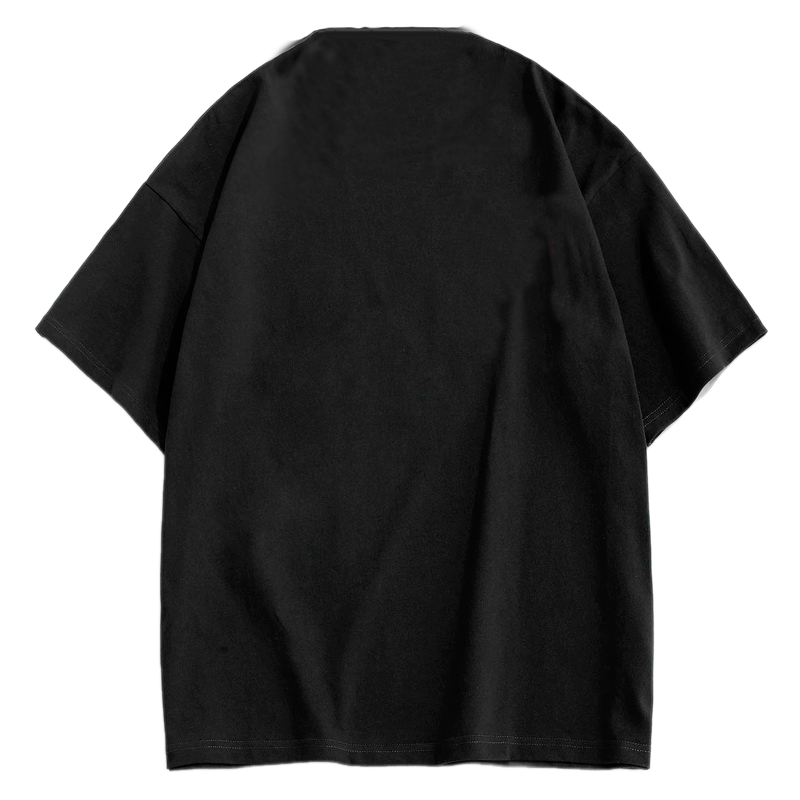
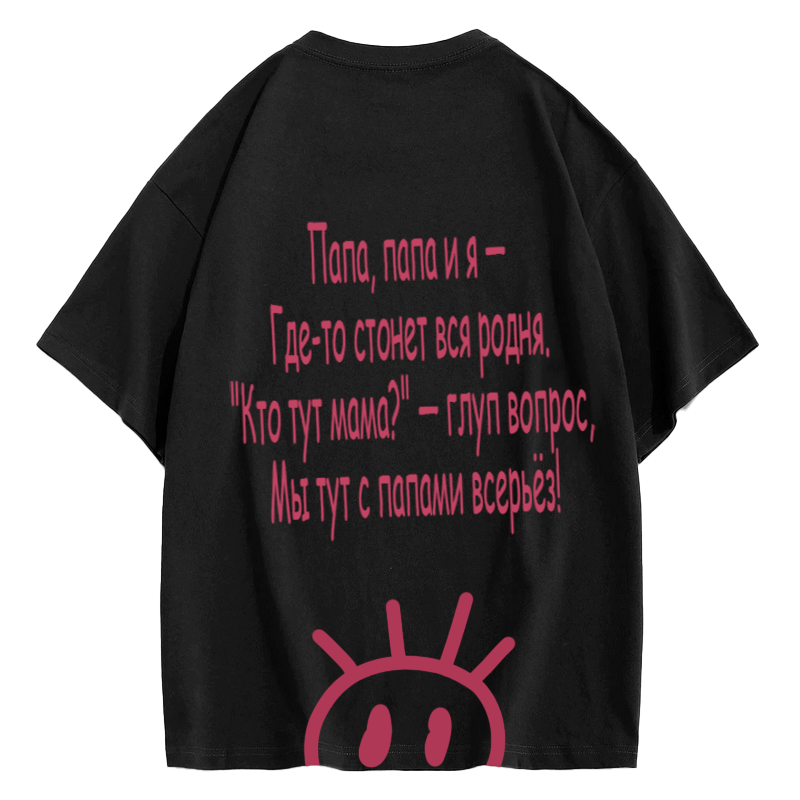
item page done

diff --git a/src/components/BlackTshirtPage.js b/src/components/BlackTshirtPage.js
@@ -3,13 +3,20 @@ import Header from './Header';
 import styles from '../css/item_style.module.css';
 
 import redTshirtImg from '../img/black_tshirt/fytbolka_black_red.png'
-import redTshirtImgBack from '../img/black_tshirt/fytbolka_black_red_back.png'
+// import redTshirtImgBack from '../img/black_tshirt/fytbolka_black_red_back_ver_2.png'
+import redTshirtImgBack from '../img/black_tshirt/fytbolka_black_red_back_ver_3.png'
 
 import yellowTshirtImg from '../img/black_tshirt/fytbolka_black_yellow.png'
-import yellowTshirtImgBack from '../img/black_tshirt/fytbolka_black_yellow_back.png'
+// import yellowTshirtImgBack from '../img/black_tshirt/fytbolka_black_yellow_back_ver_2.png'
+import yellowTshirtImgBack from '../img/black_tshirt/fytbolka_black_yellow_back_ver_3.png'
 
 import blueTshirtImg from '../img/black_tshirt/fytbolka_black_blue.png'
-import blueTshirtImgBack from '../img/black_tshirt/fytbolka_black_blue_back.png'
+// import blueTshirtImgBack from '../img/black_tshirt/fytbolka_black_blue_back_ver_2.png'
+import blueTshirtImgBack from '../img/black_tshirt/fytbolka_black_blue_back_ver_3.png'
+
+import npLogo from '../img/novaposhta_logo.png'
+import ukrLogo from '../img/ukrposhta.png'
+import mstLogo from '../img/meest_logo.png'
 
 
 function BlackTshirtPage(props) {
@@ -45,28 +52,32 @@ function BlackTshirtPage(props) {
             alt='asd'
           />
 
-          <div className={styles.itemInfo}>
+          <div className={`${styles.itemInfo} ${styles[`bg${color}`]}`}>
             <div>
               <h1 className={styles.h}>T-shirt «Papa, Papa & Ya»</h1>
               <h2 className={`${styles.h} ${styles.h2}`}>₴ 630</h2>
 
-              <h4 className={styles.h}>Color: {color}</h4>
+              <h4 className={styles.h}>Color:</h4>
               <div className={`${styles.colorPick} ${styles[`color${props.color}`]}`}>
-                <div className={`${styles.colorChoose} ${styles.setRed} ${styles.red}`}
+                <div className={`${styles.colorChoose} ${styles.setRed} ${styles.red} ${color === 'red' ? styles.selectedColor : ''}`}
                   onClick={() => setColor('red')}></div>
-                <div className={`${styles.colorChoose} ${styles.setYellow} ${styles.yellow}`}
+
+                <div className={`${styles.colorChoose} ${styles.setYellow} ${styles.yellow} ${color === 'yellow' ? styles.selectedColor : ''}`}
                   onClick={() => setColor('yellow')}></div>
-                <div className={`${styles.colorChoose} ${styles.setBlue} ${styles.blue}`}
+
+                <div className={`${styles.colorChoose} ${styles.setBlue} ${styles.blue} ${color === 'blue' ? styles.selectedColor : ''}`}
                   onClick={() => setColor('blue')}></div>
               </div>
 
-              <h4 className={styles.h}>Size: {size}</h4>
+              <h4 className={styles.h}>Size:</h4>
               <div className={styles.sizePick}>
-                <div className={`${styles.sizeChoose} ${styles.inStock}`}
+                <div className={`${styles.sizeChoose} ${styles.inStock} ${size === 'M' ? styles.selectedSize : ''}`}
                   onClick={() => setSize('M')}>M</div>
-                <div className={`${styles.sizeChoose} ${styles.inStock}`}
+                <div className={`${styles.sizeChoose}  ${styles.inStock} ${size === 'L' ? styles.selectedSize : ''}`}
+                  onClick={() => setSize('L')}>L</div>
+                <div className={`${styles.sizeChoose} ${styles.inStock} ${size === 'XL' ? styles.selectedSize : ''}`}
                   onClick={() => setSize('XL')}>XL</div>
-                <div className={`${styles.sizeChoose} ${styles.outOfStock} ${styles.notAllowed}`}
+                <div className={`${styles.sizeChoose} ${styles.outOfStock} ${styles.notAllowed} ${size === 'XXL' ? styles.selectedSize : ''}`}
                   onClick={() => setSize('XXL')}>XXL</div>
               </div>
             </div>
@@ -76,7 +87,49 @@ function BlackTshirtPage(props) {
         </div>
 
         <div className={styles.itemDetails}>
-          {/* afhabfkajbhfajhbasfkbhjasfhbajfshjbafs */}
+          <div className={styles.description}>
+            <div>
+              <h3 className={styles.h}>Description:</h3>
+              <p>Type: Tshirt</p>
+              <p>Материал: 90% Cotton | 10% Polyester</p>
+              <p>Color: Black</p>
+              <p>Season: Spring / Summer</p>
+            </div>
+
+            <a href="asd"><i>Sizes Table</i></a>
+
+            <div>
+              <span>
+                <i>The vibrant print on this t-shirt will draw attention and make you stand out from the crowd. It is perfect
+                  for lovers of art and self-expression, adding a touch of creativity to your closet.
+                </i>
+              </span>
+            </div>
+          </div>
+
+          <div className={styles.delivery}>
+            <h3 className={styles.h}>Delivery ways:</h3>
+            <table className={styles.deliveryTable}>
+              <tr>
+                <th className={styles.deliveryCity} scope="col" colspan="3">Delivery throughout Ukraine and Poland</th>
+              </tr>
+              <tr>
+                <th><img src={npLogo} /></th>
+                <th>From 50₴</th>
+                <th>1 to 3 days</th>
+              </tr>
+              <tr>
+                <th><img src={ukrLogo} /></th>
+                <th>From 30₴</th>
+                <th>3 to 10 days</th>
+              </tr>
+              <tr>
+                <th><img src={mstLogo} /></th>
+                <th>From 60₴</th>
+                <th>2 to 5 days</th>
+              </tr>
+            </table>
+          </div>
         </div>
       </div >
     </>

diff --git a/src/css/item_style.module.css b/src/css/item_style.module.css
@@ -2,26 +2,29 @@
 
 .red {
   background-color: rgb(175, 85, 110);
+  border: 0.1rem solid rgb(175, 85, 110);
 }
 
 .red:hover {
-  box-shadow: 0px 0px 15px rgba(175, 85, 110, 0.5);
+  box-shadow: 0px 0px 15px rgba(175, 85, 110, 0.75);
 }
 
 .yellow {
   background-color: rgb(204, 163, 29);
+  border: 0.1rem solid rgb(204, 163, 29);
 }
 
 .yellow:hover {
-  box-shadow: 0px 0px 15px rgba(204, 163, 29, 0.5);
+  box-shadow: 0px 0px 15px rgba(204, 163, 29, 0.75);
 }
 
 .blue {
   background-color: rgb(33, 139, 226);
+  border: 0.1rem solid rgb(33, 139, 226);
 }
 
 .blue:hover {
-  box-shadow: 0px 0px 15px rgba(33, 139, 226, 0.5);
+  box-shadow: 0px 0px 15px rgba(33, 139, 226, 0.75);
 }
 
 /* ======================= */
@@ -40,7 +43,7 @@
 }
 
 .itemPhoto {
-  width: 30%;
+  width: 35%;
   border-radius: 1.5rem;
   background-color: white;
 
@@ -50,7 +53,6 @@
 }
 
 .itemPhoto:hover {
-  transform: scale(1.01);
   box-shadow: 0px 0px 20px rgba(0, 0, 0, 0.085);
 }
 
@@ -59,16 +61,28 @@
   border-radius: 1.5rem;
   padding: 3rem;
   background-color: white;
-  background-image: url(../img/backgrounds/buy_it_pls_red.png);
   background-repeat: no-repeat;
-  background-size: 76%;
-  background-position-x: right;
+  background-size: 75%;
+  background-position-x: 80%;
+  background-position-y: 105%;
 
   display: flex;
   flex-direction: column;
   justify-content: space-between;
 
   box-shadow: 0px 0px 20px rgba(0, 0, 0, 0.085);
+}
+
+.bgred {
+  background-image: url(../img/backgrounds/buy_it_pls_red.png);
+}
+
+.bgyellow {
+  background-image: url(../img/backgrounds/buy_it_pls_yellow.png);
+}
+
+.bgblue {
+  background-image: url(../img/backgrounds/buy_it_pls_blue.png);
 }
 
 .h {
@@ -110,6 +124,9 @@
   width: 1.5rem;
   height: 1.5rem;
   border-radius: 0.5rem;
+
+  outline: 0.15rem solid rgba(150, 150, 150, 0);
+  outline-offset: 0.2rem;
 }
 
 .colorChoose:hover {
@@ -117,22 +134,128 @@
   box-shadow: none;
 }
 
+.selectedColor {
+  outline: 0.15rem solid rgb(150, 150, 150);
+  outline-offset: 0.2rem;
+
+  transition: transform 350ms linear, outline 200ms linear;
+  transform: translateY(-0.2rem);
+}
+
 .sizeChoose {
   width: fit-content;
   height: 1.5rem;
-  padding: 0px 10px;
+  padding: 0px 0.6rem;
   border-radius: 0.5rem;
+
+  outline: 0.1rem solid rgba(120, 120, 120, 0);
+  outline-offset: 0.1rem;
+
+  border: 1px solid rgb(120, 120, 120);
 }
 
 .sizeChoose:hover {
   cursor: pointer;
 }
 
-.inStock {
-  border: 1px solid rgb(120, 120, 120);
+.selectedSize {
+  transition: transform 350ms linear, outline 200ms linear;
+
+  border: 0;
+  outline: 0.1rem solid rgb(120, 120, 120);
+  transform: translateY(-0.1rem);
 }
 
 .outOfStock {
   pointer-events: none;
   border: 1px dashed rgb(120, 120, 120);
+  color: rgb(120, 120, 120);
+  opacity: 50%;
+}
+
+
+/* ITEM DETAILS ITEM DETAILS ITEM DETAILS ITEM DETAILS */
+.itemDetails {
+  display: flex;
+  flex-direction: row;
+  gap: 3.125rem;
+}
+
+.description {
+  width: 50%;
+  border-radius: 1.5rem;
+  padding: 2rem;
+  background-color: white;
+
+  display: flex;
+  flex-direction: column;
+  justify-content: space-between;
+
+  box-shadow: 0px 0px 20px rgba(0, 0, 0, 0.085);
+}
+
+.description div span {
+  color: rgb(120, 120, 120);
+}
+
+.description a {
+  color: rgb(175, 45, 100);
+  text-decoration: none;
+
+  transition: all 200ms linear;
+}
+
+.description a:hover {
+  color: rgb(175, 75, 110);
+  text-shadow: 0px 0px 5px rgba(175, 45, 100, 0.5);
+  cursor: pointer;
+}
+
+.delivery {
+  width: 50%;
+  border-radius: 1.5rem;
+  padding: 2rem;
+  background-color: white;
+
+  box-shadow: 0px 0px 20px rgba(0, 0, 0, 0.085);
+}
+
+.deliveryTable {
+  border-collapse: separate;
+  border-spacing: 0;
+
+  border-left: 1px solid rgb(144, 144, 144);
+  border-right: 1px solid rgb(144, 144, 144);
+  border-bottom: 1px solid rgb(144, 144, 144);
+  border-top: 1px solid rgb(144, 144, 144);
+
+  border-radius: 25px;
+  overflow: hidden;
+  /* Скрываем части ячеек, которые выходят за пределы закругленных углов */
+  width: 100%;
+}
+
+.deliveryTable img {
+  width: 100px;
+}
+
+.deliveryTable {
+  color: rgb(92, 92, 92);
+  ;
+}
+
+.deliveryTable th,
+.deliveryTable td {
+  padding: 10px;
+  text-align: center;
+}
+
+.deliveryCity {
+  text-align: center;
+  border-bottom: 1px solid rgb(144, 144, 144);
+}
+
+.deliveryCity:hover {
+  cursor: pointer;
+  font-weight: bold;
 }

diff --git a/public/index.html b/public/index.html
@@ -11,7 +11,7 @@
 
   <link rel="manifest" href="%PUBLIC_URL%/manifest.json" />
 
-  <title>React App</title>
+  <title>KoF Store</title>
 </head>
 
 <body id="root">

diff --git a/src/components/KofContext.js b/src/components/KofContext.js
@@ -1,0 +1,6 @@
+import { React, useContext } from 'react'
+
+
+const UserContext = useContext('no cotext')
+
+export default UserContext
